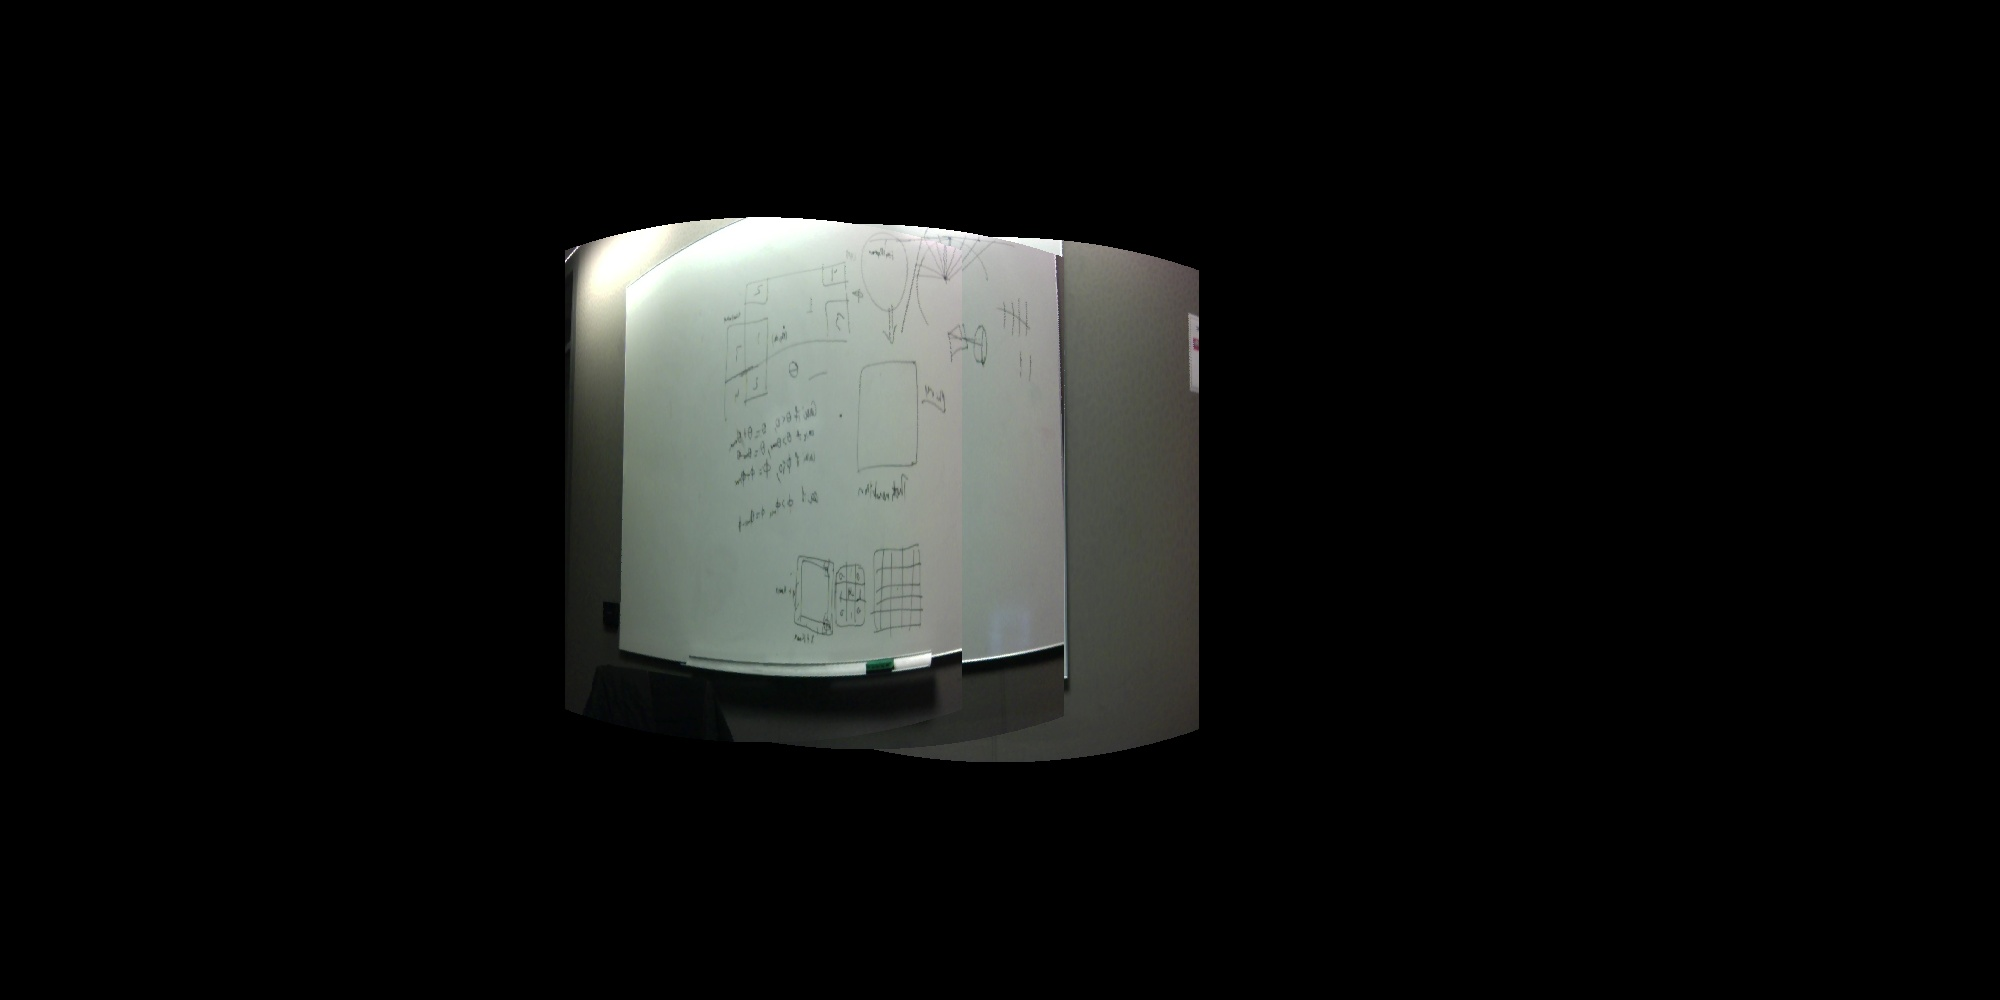
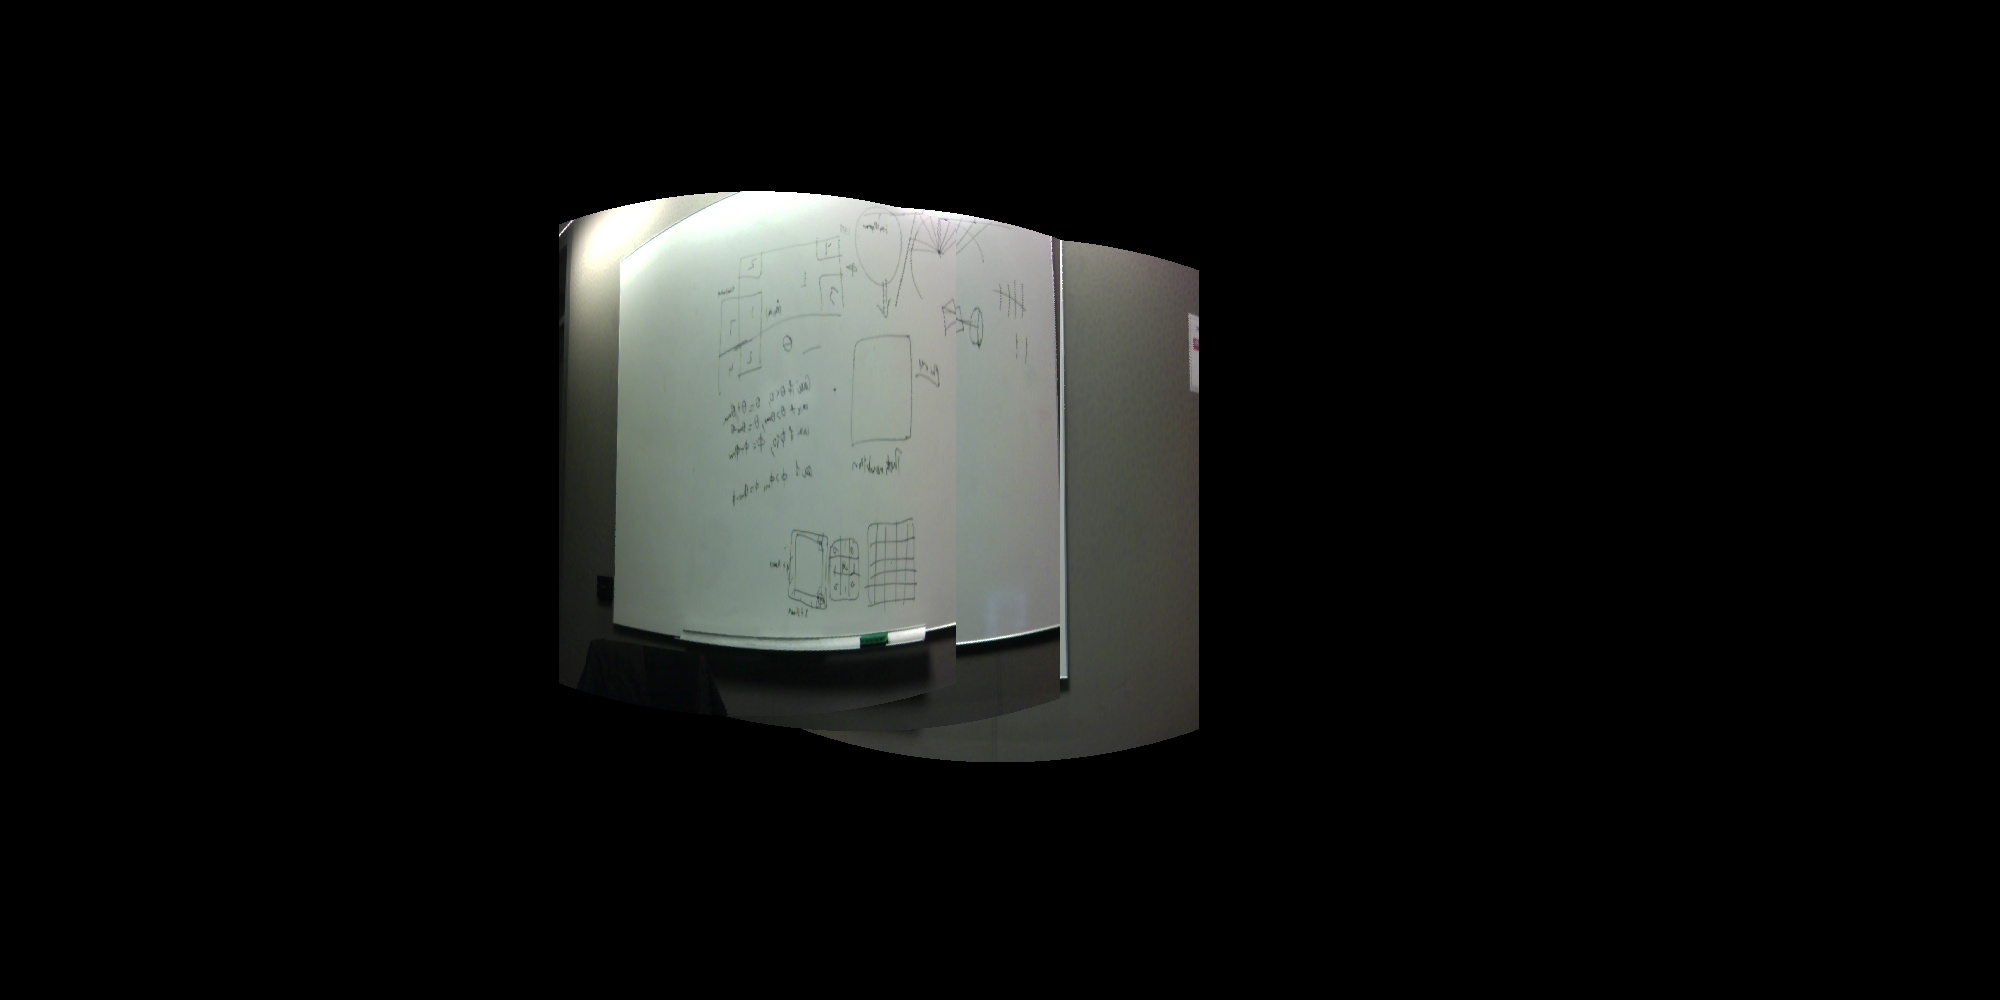
Built laplacian pyramid --- blending

diff --git a/src/panoramic/Panoramic.cpp b/src/panoramic/Panoramic.cpp
@@ -42,19 +42,32 @@ bool Panoramic::stitch(SphericalStitchRequest& req, SphericalStitchResponse& res
   for( int i = 0; i < req.queue.size(); i++ ) {
     cv_bridge::CvImagePtr input_image = cv_bridge::toCvCopy( req.queue[i], sensor_msgs::image_encodings::BGR8 );
     
-    cv::Mat& input_uncalibrated = input_image->image;
-    cv::Mat input_calibrated;
+    cv::Mat input_uncalibrated = input_image->image.clone();
+    /*cv::Mat input_calibrated;
     cv::Mat K(3, 3, CV_64FC3);
     cv::Mat D(1, 5, CV_64FC3);
     // Fix any spherical distortion in the image using the camera information
     if(std::string("plumb_bob") == req.camera_info.distortion_model) {
       K.at<double>(0,0) = req.camera_info.K[0];
-      cv::undistort(input_uncalibrated, input_calibrated, K, D);
+      K.at<double>(0,1) = req.camera_info.K[1];
+      K.at<double>(0,2) = req.camera_info.K[2];
+      K.at<double>(1,1) = req.camera_info.K[3];
+      K.at<double>(1,2) = req.camera_info.K[4];
+      K.at<double>(1,3) = req.camera_info.K[5];
+      K.at<double>(2,1) = req.camera_info.K[6];
+      K.at<double>(2,2) = req.camera_info.K[7];
+      K.at<double>(2,3) = req.camera_info.K[8];
+      D.at<double>(0,0) = req.camera_info.D[0];
+      D.at<double>(0,1) = req.camera_info.D[1];
+      D.at<double>(0,2) = req.camera_info.D[2];
+      D.at<double>(0,3) = req.camera_info.D[3];
+      D.at<double>(0,4) = req.camera_info.D[4];
+      // cv::undistort(input_uncalibrated, input_calibrated, K, D);
     }
-    else input_calibrated = input_image->image;
+    else input_calibrated = input_image->image;*/
 
     cv::Mat warp, mask( phi_res, theta_res, CV_8UC1, cv::Scalar(0) );
-    warp = warp_to_hsphere( input_calibrated, phi_res, theta_res, s, mask );
+    warp = warp_to_hsphere( input_uncalibrated, phi_res, theta_res, s, mask );
     image_queue.push_back( WarpedPair( warp, mask ) );
   }
 
@@ -73,6 +86,8 @@ bool Panoramic::stitch(SphericalStitchRequest& req, SphericalStitchResponse& res
     }
   }
 
+  blend_sphere(image_queue, sphere, s_transforms, phi_res, theta_res);
+
   std::string p_path = ros::package::getPath("panoramic");
   std::stringstream ss;
   ss << p_path << "/res/images/mask.jpg";
@@ -84,6 +99,28 @@ bool Panoramic::stitch(SphericalStitchRequest& req, SphericalStitchResponse& res
   cv::imwrite(ss.str().c_str(), sphere);
   
   return true;
+}
+
+void Panoramic::blend_sphere(std::vector<WarpedPair>& warped_inputs, cv::Mat& sphere, std::vector<SphericalTransform>& s_transforms, int phi_res, int theta_res)
+{
+  // Laplacian Pyramid
+  // Downsample, blend, then upsample
+  Pyramid p;
+  p.push_back(warped_inputs);
+  for(int i = 0; i < 3; i++) {
+    std::vector<WarpedPair> level;
+    for(int j = 0; j < p[i].size(); j++) {
+      cv::Mat p_im, p_mask;
+      pyrDown( p[i][j].first, p_im );
+      pyrDown( p[i][j].second, p_mask );
+      level.push_back( WarpedPair( p_im,  p_mask) );
+    }
+    p.push_back( level );
+  }
+  std::cout << "Building pyramid: " << p.size() << std::endl; 
+  // Blend with respect to masks at each level
+
+  // Reconstruct
 }
 
 cv::Mat Panoramic::warp_to_hsphere(cv::Mat& input, int phi_res, int theta_res, int focal_length, cv::Mat& mask)

diff --git a/include/panoramic/Panoramic.hpp b/include/panoramic/Panoramic.hpp
@@ -49,6 +49,7 @@ public:
   typedef panoramic::SphericalStitch::Response SphericalStitchResponse;
   typedef std::vector<cv::KeyPoint> KeyPoints;
   typedef std::pair<cv::Mat, cv::Mat> WarpedPair;
+  typedef std::vector< std::vector<WarpedPair> > Pyramid;
 
   Panoramic();
   ~Panoramic();
@@ -60,6 +61,7 @@ public:
   cv::Mat warp_to_hsphere(cv::Mat& input, int phi_res, int theta_res, int focal_length, cv::Mat& mask);
   void generate_image_transforms(cv::Mat& sphere, std::vector<WarpedPair>& warped_inputs, std::vector<SphericalTransform>& relative_transforms, int phi_res, int theta_res);
   void hsphere_to_sphere(WarpedPair& hsphere, cv::Mat& sphere, SphericalTransform& s_transform, int theta_res, int phi_res);
+  void blend_sphere(std::vector<WarpedPair>& warped_inputs, cv::Mat& sphere, std::vector<SphericalTransform>& s_transforms, int phi_res, int theta_res);
 
 };
 

diff --git a/src/tests/ransac_test.cpp b/src/tests/ransac_test.cpp
@@ -56,14 +56,15 @@ int main(int argc, char** argv)
     ci.distortion_model = std::string("plumb_bob");
     ci.K[0] = 597.047010;
     ci.K[1] = 0.0;
-    ci.K[1] = 325.596134;
-    ci.K[1] = 0.0;
-    ci.K[1] = 596.950842;
-    ci.K[1] = 211.872049;
-    ci.K[1] = 0.0;
-    ci.K[1] = 0.0;
-    ci.K[1] = 1.0;
+    ci.K[2] = 325.596134;
+    ci.K[3] = 0.0;
+    ci.K[4] = 596.950842;
+    ci.K[5] = 211.872049;
+    ci.K[6] = 0.0;
+    ci.K[7] = 0.0;
+    ci.K[8] = 1.0;
 
+    ci.D.resize(5);
     ci.D[0] = 0.013417;
     ci.D[1] = -0.105440;
     ci.D[2] = -0.016704;
